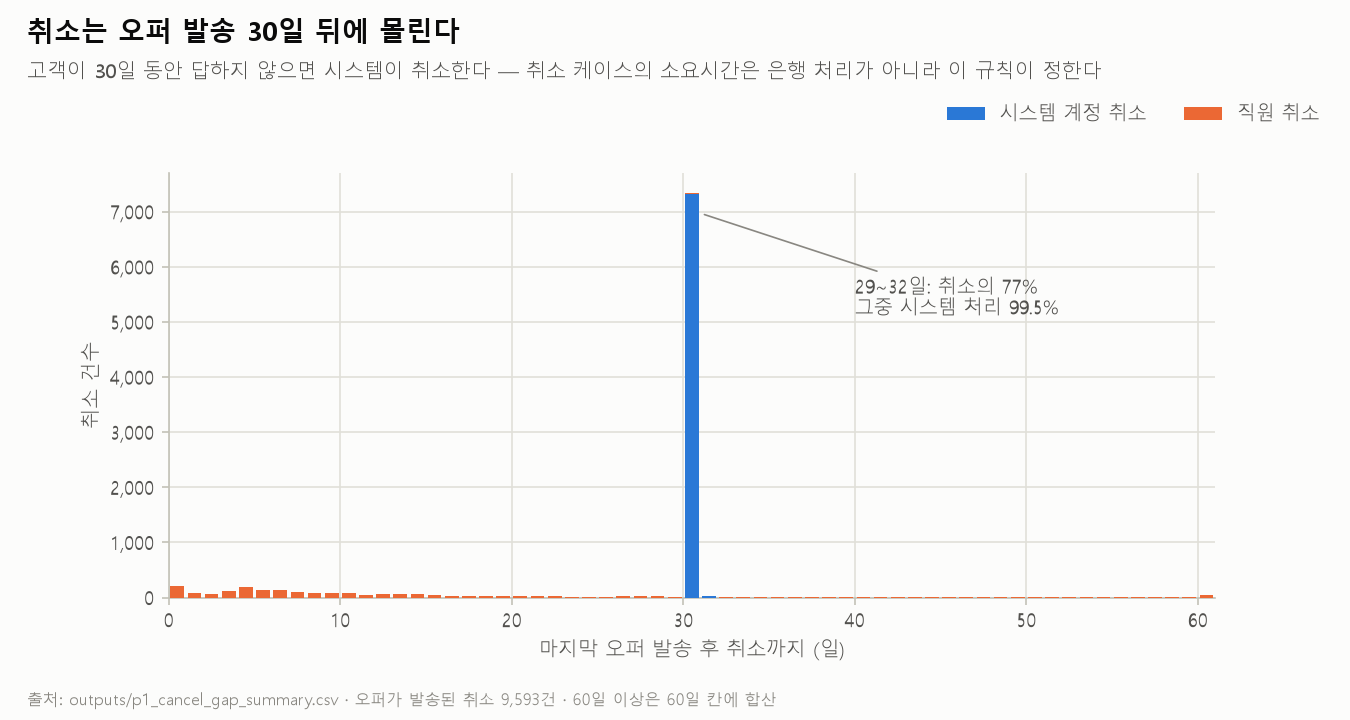
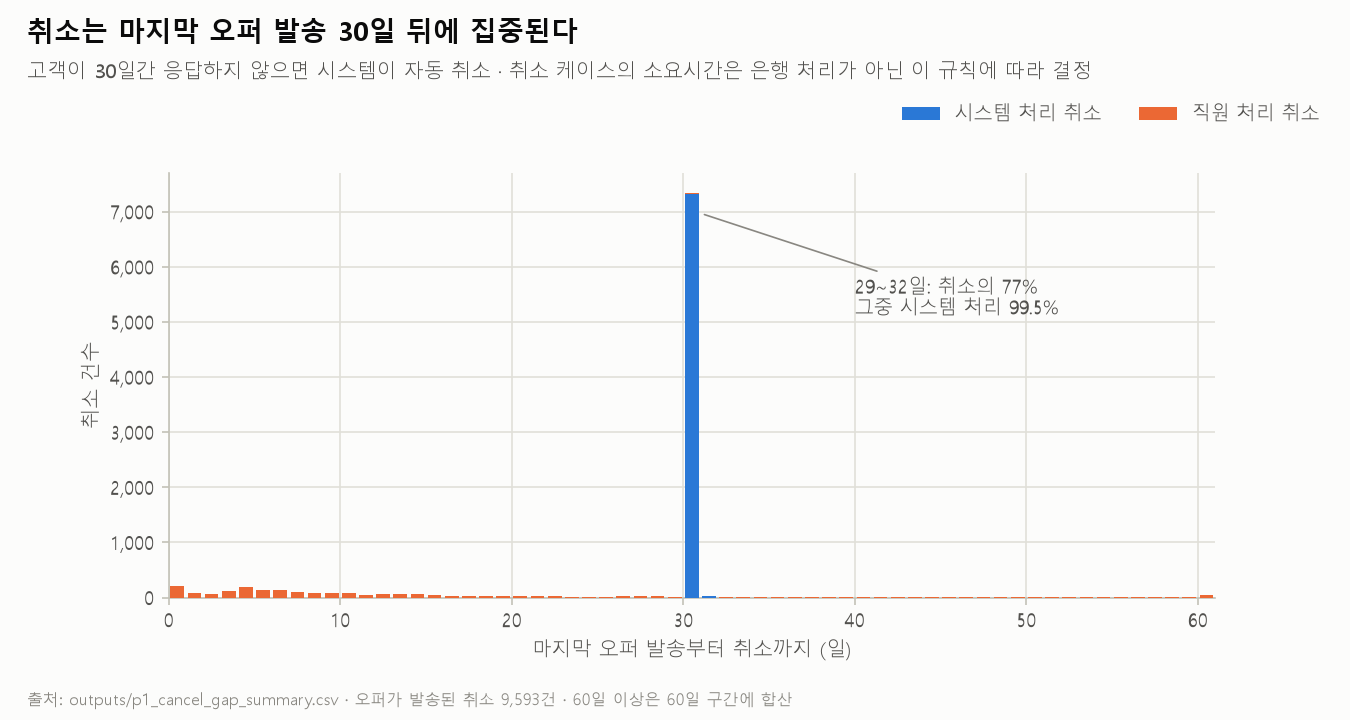
docs: rewrite chart Korean text in report register
Titles as one-line conclusions, subtitles and notes in noun-ending style;
em dashes and colloquial verbs removed. Chart-only segment names
(A_Submitted 있음/없음, 금액 미기재) via charts.CHANNEL_DISPLAY.
Doc alt texts follow the new titles. _workspace/ ignored.

Changed region(s): [[0.0933, 0.0, 0.9333, 0.1833], [0.4044, 0.8861, 0.6222, 0.9167], [0.5289, 0.9472, 0.5911, 0.9778]]

diff --git a/analysis/21_make_charts.py b/analysis/21_make_charts.py
@@ -11,8 +11,8 @@ import numpy as np
 import pandas as pd
 from matplotlib.ticker import FuncFormatter, MultipleLocator, PercentFormatter
 
-from charts import (BASE, CHANNELS, GRAY, INK, INK2, MUTED, SERIES, SURFACE, channel_of, footnote,
-                    headline, pretty_segment, save, setup)
+from charts import (BASE, CHANNEL_DISPLAY, CHANNELS, GRAY, INK, INK2, MUTED, SERIES, SURFACE, channel_of,
+                    footnote, headline, pretty_segment, save, setup)
 from config import OUT_DIR
 from efficiency import targeting_curve
 from loader import load_population
@@ -26,7 +26,7 @@ def _channel_scatter(ax, table: pd.DataFrame, x: str, y: str) -> None:
     for color, name in zip(SERIES, CHANNELS):
         part = table[channel == name]
         ax.scatter(part[x], part[y], s=48, color=color, edgecolor=SURFACE, linewidth=1.5,
-                   label=name, zorder=3)
+                   label=CHANNEL_DISPLAY[name], zorder=3)
 
 
 def _two_line(segment: str) -> str:
@@ -53,20 +53,20 @@ def cancel_gap() -> str:
     fig, ax = plt.subplots(figsize=(9, 4.8))
     fig.subplots_adjust(top=0.76, bottom=0.17)
     ax.hist([days[system], days[~system]], bins=bins, stacked=True, rwidth=0.8,
-            color=[SERIES[0], SERIES[1]], label=["시스템 계정 취소", "직원 취소"], zorder=3)
+            color=[SERIES[0], SERIES[1]], label=["시스템 처리 취소", "직원 처리 취소"], zorder=3)
     peak = np.histogram(days, bins=bins)[0].max()
     ax.annotate(f"29~32일: 취소의 {summary['share_within_29_32_days']:.0%}\n"
                 f"그중 시스템 처리 {summary['system_share_within_rule']:.1%}",
                 xy=(31, peak * 0.95), xytext=(40, peak * 0.7), fontsize=9, color=INK2,
                 arrowprops=dict(arrowstyle="-", color=MUTED, lw=0.8))
-    ax.set_xlabel("마지막 오퍼 발송 후 취소까지 (일)")
+    ax.set_xlabel("마지막 오퍼 발송부터 취소까지 (일)")
     ax.set_ylabel("취소 건수")
     ax.yaxis.set_major_formatter(THOUSANDS)
     ax.set_xlim(0, 61)
     fig.legend(loc="upper right", bbox_to_anchor=(0.99, 0.88), ncol=2)
-    headline(fig, "취소는 오퍼 발송 30일 뒤에 몰린다",
-             "고객이 30일 동안 답하지 않으면 시스템이 취소한다 — 취소 케이스의 소요시간은 은행 처리가 아니라 이 규칙이 정한다")
-    footnote(fig, "출처: outputs/p1_cancel_gap_summary.csv · 오퍼가 발송된 취소 9,593건 · 60일 이상은 60일 칸에 합산")
+    headline(fig, "취소는 마지막 오퍼 발송 30일 뒤에 집중된다",
+             "고객이 30일간 응답하지 않으면 시스템이 자동 취소 · 취소 케이스의 소요시간은 은행 처리가 아닌 이 규칙에 따라 결정")
+    footnote(fig, "출처: outputs/p1_cancel_gap_summary.csv · 오퍼가 발송된 취소 9,593건 · 60일 이상은 60일 구간에 합산")
     return save(fig, "p1_cancel_gap.png")
 
 
@@ -91,11 +91,11 @@ def rate_vs_eta() -> str:
     ax.xaxis.set_major_formatter(PercentFormatter(1.0, decimals=0))
     ax.yaxis.set_major_formatter(THOUSANDS)
     fig.legend(loc="upper right", bbox_to_anchor=(0.99, 0.86), ncol=3)
-    headline(fig, "성사율이 높다고 효율이 높은 것은 아니다",
-             f"세그먼트 39개의 성사율 순위와 효율 순위의 상관 ρ = {align['rho_p_eta']:.2f} "
+    headline(fig, "성사율이 높은 세그먼트와 효율이 높은 세그먼트는 일치하지 않는다",
+             f"세그먼트 39개의 성사율 순위와 효율 순위 간 상관 ρ = {align['rho_p_eta']:.2f} "
              f"(90% 구간 {align['rho_ci_lo']:.2f}~{align['rho_ci_hi']:.2f})")
     footnote(fig, "출처: outputs/p5_segment_efficiency.csv, p5_rank_alignment.csv · 가로·세로 선은 중앙값 · "
-                  "이름 붙은 점은 두 순위 차이가 가장 큰 세그먼트")
+                  "라벨이 붙은 점은 두 순위 차이가 가장 큰 세그먼트")
     return save(fig, "p5_rate_vs_eta.png")
 
 
@@ -105,7 +105,7 @@ def targeting() -> str:
 
     fig, ax = plt.subplots(figsize=(9, 5))
     fig.subplots_adjust(top=0.78, bottom=0.13)
-    for order, color, name in [("eta", SERIES[0], "효율(η) 높은 세그먼트부터"), ("p", SERIES[1], "성사율 높은 세그먼트부터")]:
+    for order, color, name in [("eta", SERIES[0], "효율 η 높은 순"), ("p", SERIES[1], "성사율 높은 순")]:
         curve = targeting_curve(t, order)
         xs = np.concatenate([[0.0], curve["effort_share"].to_numpy()]) * 100
         ys = np.concatenate([[0.0], curve["volume"].to_numpy()]) / 1e6
@@ -113,18 +113,18 @@ def targeting() -> str:
     eta_v, p_v = compare["volume_by_eta"] / 1e6, compare["volume_by_success_rate"] / 1e6
     ax.axvline(50, color=BASE, lw=0.8, zorder=1)
     ax.scatter([50, 50], [eta_v, p_v], s=48, color=[SERIES[0], SERIES[1]], edgecolor=SURFACE, linewidth=1.5, zorder=4)
-    ax.annotate(f"{eta_v:,.1f}", (50, eta_v), xytext=(-8, 6), textcoords="offset points", ha="right", fontsize=9, color=INK2)
-    ax.annotate(f"{p_v:,.1f}  (+{compare['eta_order_gain']:.1%} 차이)", (50, p_v), xytext=(8, -12),
-                textcoords="offset points", fontsize=9, color=INK2)
+    ax.annotate(f"{eta_v:,.1f} (성사율 순서 대비 +{compare['eta_order_gain']:.1%})", (50, eta_v), xytext=(-8, 6),
+                textcoords="offset points", ha="right", fontsize=9, color=INK2)
+    ax.annotate(f"{p_v:,.1f}", (50, p_v), xytext=(8, -12), textcoords="offset points", fontsize=9, color=INK2)
     ax.set_xlabel("투입 공수 (전체 공수 대비)")
     ax.set_ylabel("기대 대출 규모 (백만 유로)")
     ax.xaxis.set_major_formatter(PercentFormatter(100, decimals=0))
     ax.set_xlim(0, 100)
     ax.set_ylim(0, None)
     ax.legend(loc="lower right")
-    headline(fig, "같은 공수를 효율 순서로 쓰면 대출 규모가 13% 늘어난다",
-             "공수 예산 50%에서 효율 순서 vs 성사율 순서 — 관측된 세그먼트 평균으로 계산한 가상 배분")
-    footnote(fig, "출처: outputs/p5_targeting_compare.csv · 세그먼트 39개 · 개입 효과가 아니라 순서의 가치를 보여준다")
+    headline(fig, "같은 공수를 효율 순서로 배분하면 대출 규모가 13% 늘어난다",
+             "공수 예산 50% 지점에서 효율 순서와 성사율 순서 비교 · 관측된 세그먼트 평균으로 계산한 가상 배분")
+    footnote(fig, "출처: outputs/p5_targeting_compare.csv · 세그먼트 39개 · 배분 순서의 가치 비교(개입 효과 아님)")
     return save(fig, "p5_targeting_curve.png")
 
 
@@ -133,7 +133,7 @@ def multi_offer() -> str:
     g = groups[groups["definition"] == "d1_later"].set_index("group").loc[["single", "multi_same", "multi_later"]]
     diffs = pd.read_csv(OUT_DIR / "p6_stratified_diff.csv")
     d = diffs[(diffs["grouping"] == "group_d1_later") & (diffs["metric"] == "reached_pending")].set_index("comparison")
-    names = ["오퍼 1건", "복수 오퍼\n같은 상담", "복수 오퍼\n나중 상담"]
+    names = ["단일 오퍼", "복수 오퍼\n같은 상담", "복수 오퍼\n나중 상담"]
 
     fig, (left, right) = plt.subplots(1, 2, figsize=(9, 4.6))
     fig.subplots_adjust(top=0.74, bottom=0.16, wspace=0.35)
@@ -151,10 +151,10 @@ def multi_offer() -> str:
     right.set_ylim(0, 1.0)
     same = d.loc["multi_same - single", "stratified_diff"] * 100
     later = d.loc["multi_later - single", "stratified_diff"] * 100
-    headline(fig, "복수 오퍼의 우위는 '나중 상담'에서만 나온다",
-             f"세그먼트 층화 후 단일 대비 성사율: 같은 상담 {same:+.1f}%p, 나중 상담 {later:+.1f}%p "
-             "— 나중 상담은 고객이 남아 있어야 생기므로 상한이다")
-    footnote(fig, "출처: outputs/p6_group_summary.csv, p6_stratified_diff.csv · 상담 구분 D1(생성 간격 1일 초과) · "
+    headline(fig, "복수 오퍼의 성사율 우위는 '나중 상담'에서만 나타난다",
+             f"세그먼트 층화 후 단일 오퍼 대비 성사율 차이는 같은 상담 {same:+.1f}%p, 나중 상담 {later:+.1f}%p"
+             " (고객이 남아 있어야 생기므로 상한)")
+    footnote(fig, "출처: outputs/p6_group_summary.csv, p6_stratified_diff.csv · 상담 구분은 D1(생성 간격 1일 초과) 기준 · "
                   "D2(첫 오퍼 발송 후 추가)에서도 방향 동일")
     return save(fig, "p6_multi_offer.png")
 
@@ -177,7 +177,7 @@ def failure_effort() -> str:
             if width >= 2.5:
                 ax.text(start + width / 2, yi, f"{width:.1f}%", ha="center", va="center", fontsize=9, color=ink)
         ax.text(b + a + 0.3, yi, f"합계 {b + a:.1f}%", va="center", fontsize=9, color=INK2)
-    ax.annotate("접촉 정책이 다룰 수 있는 몫", (before[1] + after[1] / 2, y[1] - 0.2), xytext=(0, -18),
+    ax.annotate("접촉 정책이 다룰 수 있는 부분", (before[1] + after[1] / 2, y[1] - 0.2), xytext=(0, -18),
                 textcoords="offset points", ha="center", fontsize=9, color=INK2,
                 arrowprops=dict(arrowstyle="-", color=MUTED, lw=0.8))
     ax.set_yticks(y, [name for _, name in rows])
@@ -189,9 +189,9 @@ def failure_effort() -> str:
     fig.legend(loc="upper right", bbox_to_anchor=(0.99, 0.84), ncol=2)
     auto_before = f.loc["auto_cancel", "effort_before"] / f.loc["auto_cancel", "effort_total"]
     denied_after = f.loc["denied", "effort_after"] / f.loc["denied", "effort_total"]
-    headline(fig, "실패한 신청이 공수의 34%를 쓰지만, 접촉 정책이 줄일 수 있는 몫은 3.5%",
-             f"자동 취소 공수의 {auto_before:.0%}는 첫 오퍼 발송 전에 이미 들어갔다 — "
-             f"거절 공수는 {denied_after:.0%}가 발송 뒤에 든다")
+    headline(fig, "실패 신청에 공수의 34%가 투입되고 접촉 정책의 감축 여지는 3.5%다",
+             f"자동 취소 공수의 {auto_before:.0%}는 첫 오퍼 발송 전에 이미 투입 · "
+             f"거절 공수의 {denied_after:.0%}는 발송 후 투입")
     footnote(fig, f"출처: outputs/p7_failure_effort.csv · 공수 = 활동별 p99 캡 작업시간, 총 {total:,.1f}시간")
     return save(fig, "p7_failure_effort.png")
 
@@ -213,8 +213,8 @@ def eta_vs_bank_wait() -> str:
     ax.xaxis.set_major_formatter(THOUSANDS)
     ax.set_ylim(0, None)
     fig.legend(loc="upper right", bbox_to_anchor=(0.99, 0.86), ncol=3)
-    headline(fig, "효율이 높은 세그먼트가 은행에서 더 오래 기다린다",
-             f"ρ(효율, 은행 보유 일수) = {rho:+.2f} · 은행이 쥔 시간 중 실제 작업은 {active:.1%} — 나머지는 대기다")
+    headline(fig, "효율이 높은 세그먼트의 은행 보유 일수가 더 길다",
+             f"ρ(효율, 은행 보유 일수) = {rho:+.2f} · 은행 보유 시간 중 실제 작업 비중은 {active:.1%}, 나머지는 대기")
     footnote(fig, "출처: outputs/p8_segment_holder.csv, p8_intervention_checks.csv · 세그먼트 39개 · 영업시간 미보정")
     return save(fig, "p8_eta_vs_bank_wait.png")
 
@@ -222,8 +222,8 @@ def eta_vs_bank_wait() -> str:
 def ab_duration() -> str:
     a = pd.read_csv(OUT_DIR / "p9_ab_sample_sizes.csv")
     a = a[~a["experiment"].str.contains("diluted")].reset_index(drop=True)
-    source = {"observed, stratified D1 (Phase 6)": "관측 D1", "observed, stratified D2 (Phase 6)": "관측 D2",
-              "design minimum": "설계 최소", "design": "설계"}
+    source = {"observed, stratified D1 (Phase 6)": "D1 관측값", "observed, stratified D2 (Phase 6)": "D2 관측값",
+              "design minimum": "설계 최솟값", "design": "설계값"}
     names = [("첫 상담 단일 오퍼" if e.startswith("first") else "접촉 정책")
              + f" · {d * 100:+.1f}%p ({source[s]})" for e, d, s in zip(a["experiment"], a["delta"], a["delta_source"])]
     feasible = a["verdict"] == "feasible"
@@ -231,8 +231,8 @@ def ab_duration() -> str:
 
     fig, ax = plt.subplots(figsize=(9, 4.8))
     fig.subplots_adjust(top=0.76, bottom=0.14, left=0.33)
-    ax.barh(y[feasible], a.loc[feasible, "months_needed"], height=0.5, color=SERIES[0], label="6개월 안에 가능", zorder=3)
-    ax.barh(y[~feasible], a.loc[~feasible, "months_needed"], height=0.5, color=GRAY, label="불가", zorder=3)
+    ax.barh(y[feasible], a.loc[feasible, "months_needed"], height=0.5, color=SERIES[0], label="6개월 내 가능", zorder=3)
+    ax.barh(y[~feasible], a.loc[~feasible, "months_needed"], height=0.5, color=GRAY, label="6개월 초과", zorder=3)
     for yi, m, n in zip(y, a["months_needed"], a["n_per_arm"]):
         ax.text(m + 0.8, yi, f"{m:.1f}개월 (군당 {n:,}건)", va="center", fontsize=8.5, color=INK2)
     ax.axvline(6, color=INK2, lw=1, zorder=2)
@@ -243,10 +243,10 @@ def ab_duration() -> str:
     ax.grid(axis="y", visible=False)
     fig.legend(loc="upper right", bbox_to_anchor=(0.99, 0.84), ncol=2)
     flows = a.groupby(a["experiment"].str.startswith("first"))["eligible_per_month"].first()
-    headline(fig, "접촉 정책은 반년 안에 검증되지만, 첫 상담 단일 오퍼는 A/B로 검증할 수 없다",
-             f"단일 오퍼 규칙이 실제로 바꾸는 신청은 월 {flows[True]:,}건, 접촉 정책 대상은 월 {flows[False]:,}건 "
+    headline(fig, "접촉 정책은 6개월 내 A/B 검증이 가능하나 첫 상담 단일 오퍼는 어렵다",
+             f"단일 오퍼 규칙의 실제 영향 대상은 월 {flows[True]:,}건, 접촉 정책 대상은 월 {flows[False]:,}건 "
              "(α 0.05 양측, 검정력 0.8, 1:1)")
-    footnote(fig, "출처: outputs/p9_ab_sample_sizes.csv · 효과 크기는 추정치가 아닌 설계 파라미터 · "
+    footnote(fig, "출처: outputs/p9_ab_sample_sizes.csv · 효과 크기는 설계 파라미터(추정치 아님) · "
                   "단일 오퍼를 전체 신청에 배정하면 효과가 희석돼 327.6개월(그림 제외)")
     return save(fig, "p9_ab_duration.png")
 

diff --git a/analysis/charts.py b/analysis/charts.py
@@ -23,6 +23,9 @@ GRAY = BASE  # de-emphasis for the emphasis form (one hue + gray)
 # The first three reference slots are the only ones validated all-pairs (scatter); never cycle past them.
 SERIES = ["#2a78d6", "#eb6834", "#1baf7a"]
 CHANNELS = ["신규·A_Submitted", "신규·표식 없음", "한도 증액"]
+# Chart-facing names: the internal labels stay in data and doc tables; charts spell out what the marker means.
+CHANNEL_DISPLAY = {"신규·A_Submitted": "신규·A_Submitted 있음", "신규·표식 없음": "신규·A_Submitted 없음",
+                   "한도 증액": "한도 증액"}
 
 
 def setup() -> None:
@@ -77,7 +80,7 @@ def save(fig, name: str) -> str:
 
 def _band_label(band: str) -> str:
     if band == ZERO_BAND:
-        return "0(미기재)"
+        return "금액 미기재"
     lo, hi = (float(x) for x in re.findall(r"[\d.]+", band))
     if lo != round(lo):  # qcut nudges the lowest edge below the minimum
         return f"{hi:,.0f} 이하"
@@ -87,8 +90,8 @@ def _band_label(band: str) -> str:
 
 
 def pretty_segment(segment: str) -> str:
-    band, *rest = segment.split(" | ")
-    return " · ".join([_band_label(band), *rest])
+    band, channel, *goal = segment.split(" | ")
+    return " · ".join([_band_label(band), CHANNEL_DISPLAY.get(channel, channel), *goal])
 
 
 def channel_of(segment: str) -> str:

diff --git a/tests/test_charts.py b/tests/test_charts.py
@@ -1,12 +1,12 @@
 from charts import channel_of, pretty_segment
 
 
-def test_pretty_segment_rewrites_amount_band():
-    assert pretty_segment("(599.999, 6500.0] | 신규·A_Submitted | Car") == "6,500 이하 · 신규·A_Submitted · Car"
+def test_pretty_segment_rewrites_amount_band_and_channel():
+    assert pretty_segment("(599.999, 6500.0] | 신규·A_Submitted | Car") == "6,500 이하 · 신규·A_Submitted 있음 · Car"
     assert pretty_segment("(25000.0, 450000.0] | 한도 증액") == "25,000 초과 · 한도 증액"
-    assert pretty_segment("0 (미기재) | 신규·표식 없음 | 용도 불명") == "0(미기재) · 신규·표식 없음 · 용도 불명"
+    assert pretty_segment("0 (미기재) | 신규·표식 없음 | 용도 불명") == "금액 미기재 · 신규·A_Submitted 없음 · 용도 불명"
 
 
-def test_channel_of():
+def test_channel_of_keeps_internal_label():
     assert channel_of("(10000.0, 15500.0] | 신규·표식 없음") == "신규·표식 없음"
     assert channel_of("(599.999, 6500.0] | 기타") == "기타"

diff --git a/docs/plans/visuals.md b/docs/plans/visuals.md
@@ -41,6 +41,10 @@
 | 2026-09-11 | 1차 렌더링 후 육안 점검에서 4건 수정: ① p5 산점도 라벨 겹침(두 쌍) → 빈 공간에 두 줄 라벨 + 지시선 ② p7 눈금이 2.5% 간격이라 "2%·8%"로 반올림 표시 → 5% 간격 ③ p7 청록 위 흰 글자 대비 부족 → 발송 전 구간을 회색(강조 형태)으로, 글자는 채움 밝기에 따라 잉크/흰색 ④ p8 오른쪽 끝 라벨 → 점 왼쪽 정렬. p6 막대 폭 0.55 → 0.4 |
 | 2026-09-11 | 문구 점검: p1 부제를 "취소 케이스의 소요시간은 은행 처리가 아니라 규칙이 정한다"로(원인 해석 금지, 문서 §4와 일치), p7 부제를 출력값(자동 취소 공수의 67%가 발송 전, 거절 공수의 80%가 발송 후)으로 교체. p5 부제의 구간은 `13_rank_alignment.py`의 5·95% 분위수 = 90% 구간임을 확인 |
 | 2026-09-11 | 완료 — 차트 7개를 `docs/01`(§4) · `05`(§1·§3) · `06`(§1) · `07`(§1) · `08`(§2) · `09`(MR2)에 삽입. 테스트 61 passed (라벨 헬퍼 2개 추가) |
+| 2026-09-11 | **문구 윤문** (사용자 요청: "도표의 한국어가 어색, 프로페셔널하게"). humanize-korean standard 경로(진단 → 윤문, 작업 폴더 `_workspace/2026-09-11-001/`, gitignore). 스킬의 정량 shim·변경률 게이트 스크립트는 경로를 찾지 못해 생략하고, 수치·한계 표시 보존은 원문과 직접 대조해 확인 |
+| 2026-09-11 | 진단된 지배 패턴과 처리: 부제 줄표(—) 5 → 0 / "A가 아니라 B" 대구 4 → 1(p1 핵심 주장만 유지) / 제목 속 "~지만," 2 → 0 / 구어(몰린다·쥔·들어갔다·몫·칸·반년·이름 붙은 점) → 집중·보유·투입·부분·구간·6개월·라벨 / 제목 7개 "~다" 결론형, 부제·각주 개조식으로 통일 / 용어 통일(단일 오퍼, 효율 η, 시스템 처리) |
+| 2026-09-11 | 윤문본 위에 직접 고친 3곳: p9 제목 "A/B가 불가능하다" → "A/B 검증이 가능하나 첫 상담 단일 오퍼는 어렵다"(8.4~63.4개월이라 "불가능"은 과장) / p9 범례 "불가" → "6개월 초과"(판정 기준을 드러냄) / p5 배분 곡선의 "+13.2%"를 성사율 순서 점에서 효율 순서 점으로 옮김("성사율 순서 대비 +13.2%") — 아래 점 옆에 있으면 그 점의 값처럼 읽힘 |
+| 2026-09-11 | 세그먼트 표기는 차트 표시용만 변경(`charts.CHANNEL_DISPLAY`): 신규·A_Submitted → "신규·A_Submitted 있음", 신규·표식 없음 → "신규·A_Submitted 없음", 0(미기재) → "금액 미기재". 데이터·결론 문서 표의 내부 라벨은 그대로. 결론 문서의 이미지 대체 텍스트 7개를 새 제목으로 갱신. 테스트 61 passed |
 
 ## 만들지 않은 것과 이유
 

diff --git a/docs/06_multi_offer.md b/docs/06_multi_offer.md
@@ -36,7 +36,7 @@
 | D2 | 복수 · 같은 상담 | 2,498 | 0.456 | 0.562 | 14,679 | 43.2% |
 | D2 | 복수 · 나중 상담 | 5,458 | 0.650 | 0.826 | 15,996 | 25.0% |
 
-![복수 오퍼의 우위는 '나중 상담'에서만 나온다](../outputs/charts/p6_multi_offer.png)
+![복수 오퍼의 성사율 우위는 '나중 상담'에서만 나타난다](../outputs/charts/p6_multi_offer.png)
 
 **선행 보고서와의 관계:** metafinanz는 "다회 대화 65.0% > 단일 대화 45.9%", Badakhshan은 "단일 대화 65% > 다회 21%"라고 보고했다 (CLAUDE.md §3). 이 프로젝트의 두 정의는 모두 **metafinanz와 같은 방향**이다. Badakhshan의 정의(W_Call after offers 개입 여부)는 여기서 재현하지 않았으므로, 그 결과가 틀렸다고는 말하지 않는다. "정의에 따라 뒤집힌다"는 우려는 적어도 시간 기준과 발송 기준 사이에서는 성립하지 않는다.
 

diff --git a/docs/09_requirements.md b/docs/09_requirements.md
@@ -103,7 +103,7 @@
 | 〃 | 〃 | 〃 | **−2%p (설계)** | 7,245 | **5.5개월** | **가능** |
 | 〃 | 〃 | 〃 | −3%p (설계) | 3,175 | 2.4개월 | 가능 |
 
-![접촉 정책은 반년 안에 검증되지만, 첫 상담 단일 오퍼는 A/B로 검증할 수 없다](../outputs/charts/p9_ab_duration.png)
+![접촉 정책은 6개월 내 A/B 검증이 가능하나 첫 상담 단일 오퍼는 어렵다](../outputs/charts/p9_ab_duration.png)
 
 - **접촉 정책:** 자동 취소율을 2%p 이상 낮추는 규칙이라면 6개월 안에 판별할 수 있다. 그보다 작은 효과는 이 유입량으로 잡을 수 없다.
 - **첫 상담 단일 오퍼:** 이 규칙이 바꾸는 신청은 전체의 11.7%(월 309건)다. 관측 연관 크기에서도 A/B에 8개월 이상 걸린다. 전체 신청에 배정하면 효과가 희석돼 사실상 불가능하다. → MR3로 대체한다.

diff --git a/docs/01_process_baseline.md b/docs/01_process_baseline.md
@@ -78,7 +78,7 @@
 | 그 구간 안 취소 중 시스템 처리 비중 | 99.5% |
 | 그 구간 밖 취소 중 시스템 처리 비중 | 0.0% |
 
-![취소는 오퍼 발송 30일 뒤에 몰린다](../outputs/charts/p1_cancel_gap.png)
+![취소는 마지막 오퍼 발송 30일 뒤에 집중된다](../outputs/charts/p1_cancel_gap.png)
 
 **판정:** 규칙이 실재한다 (P7 확정). 29~32일 구간의 취소는 사실상 전부 시스템이 처리했고, 구간 밖 취소는 전부 직원이 처리했다. 그러므로 취소는 두 유형이다.
 - **자동 취소:** 오퍼 발송 후 30일 무응답. 고객이 반응하지 않은 결과다.

diff --git a/docs/07_failed_effort.md b/docs/07_failed_effort.md
@@ -23,7 +23,7 @@
 | 30일 자동 취소 | 7,375 | 0.258 | 1,276.7 | 626.1 | 1,902.9 | **10.6%** | **3.5%** |
 | 수동 취소 | 2,317 | 0.560 | 403.2 | 893.5 | 1,296.7 | **7.2%** | 5.0% |
 
-![실패한 신청이 공수의 34%를 쓰지만, 접촉 정책이 줄일 수 있는 몫은 3.5%](../outputs/charts/p7_failure_effort.png)
+![실패 신청에 공수의 34%가 투입되고 접촉 정책의 감축 여지는 3.5%다](../outputs/charts/p7_failure_effort.png)
 
 유형·활동·시점별 비중 (`outputs/p7_failure_effort_by_activity.csv`, 전체 공수 대비):
 
